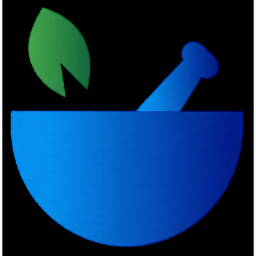
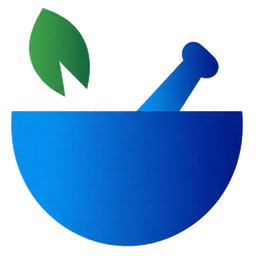
update branding assets, refine responsive UI components, and configure alternate build directory

diff --git a/components/ProductCard.tsx b/components/ProductCard.tsx
@@ -33,7 +33,7 @@ export function ProductCard({ item, preview = false }: { item: CatalogueItem; pr
     <div className="tile group flex h-full flex-col p-4 transition duration-300 hover:-translate-y-1 hover:shadow-[0_20px_50px_-25px_rgba(1,37,147,.45)]">
       <Link href={preview ? "/login" : `/shop/${item.product_id}`} className="block">
         <div className="flex items-start justify-between gap-2">
-          <div className="min-w-0"><h3 className="line-clamp-1 text-sm font-semibold">{item.name}</h3><p className="text-xs text-muted">{item.pack_size}</p></div>
+          <div className="min-w-0"><h3 className="line-clamp-2 text-sm font-semibold leading-snug">{item.name}</h3><p className="text-xs text-muted">{item.pack_size}</p></div>
           {item.requires_prescription && <span className="flex shrink-0 items-center gap-1 rounded-full bg-white px-2 py-1 text-[11px] font-semibold text-brand"><FileText size={11} /> Rx</span>}
         </div>
         <div className="relative mt-3 aspect-square overflow-hidden rounded-[20px] bg-white">
@@ -41,15 +41,15 @@ export function ProductCard({ item, preview = false }: { item: CatalogueItem; pr
           {!preview && <span className={`absolute bottom-2 left-2 flex items-center gap-1.5 rounded-full px-2.5 py-1 text-[11px] font-semibold backdrop-blur ${a.cls}`}><i className={`size-1.5 rounded-full ${a.dot}`} />{a.label}</span>}
         </div>
       </Link>
-      <div className="mt-auto flex items-center justify-between gap-2 pt-4">
+      <div className="mt-auto flex flex-wrap items-center justify-between gap-x-2 gap-y-2 pt-4">
         {preview ? (
-          <><span className="text-xs text-muted">Sign in for price</span><Link href="/login" className="btn btn-white !px-4 !py-2 text-xs">Sign in</Link></>
+          <><span className="text-xs text-muted">Price after sign in</span><Link href="/login" className="btn btn-white !px-4 !py-2 text-xs">Sign in</Link></>
         ) : (
           <>
             <span className="text-lg font-bold tracking-tight">{ghs(item.price_pesewa)}</span>
             <button className="btn btn-white !px-4 !py-2 text-xs" disabled={item.availability === "out_of_stock"} aria-label={`Add ${item.name} to cart`}
               onClick={() => { add(item); setDone(true); toast(`${item.name} added`); setTimeout(() => setDone(false), 1200); }}>
-              {done ? <Check size={14} /> : <ShoppingBag size={14} />} {done ? "Added" : "Shop Now"}
+              {done ? <Check size={14} /> : <ShoppingBag size={14} />}<span className="hidden min-[420px]:inline">{done ? "Added" : "Shop Now"}</span>
             </button>
           </>
         )}

diff --git a/app/globals.css b/app/globals.css
@@ -37,11 +37,12 @@ body {
   font-family: var(--font-jakarta), system-ui, sans-serif;
 }
 
+@layer components {
 .card { background: #fff; border-radius: 28px; border: 1px solid #e3eefb; box-shadow: 0 10px 40px -22px rgba(1, 37, 147, 0.28); }
 .tile { background: var(--tile); border-radius: 28px; }
 .hero-gradient { background: linear-gradient(115deg, #058ded 0%, #0a55c8 48%, #012593 100%); }
 .wordmark { background: linear-gradient(90deg, #7cc4f8 0%, #058ded 45%, #2f9440 100%); -webkit-background-clip: text; background-clip: text; color: transparent; }
-.btn { display: inline-flex; align-items: center; justify-content: center; gap: .5rem; border-radius: 9999px; padding: .75rem 1.4rem; font-weight: 600; font-size: .9rem; transition: transform .2s, background .2s, opacity .2s; cursor: pointer; }
+.btn { white-space: nowrap; display: inline-flex; align-items: center; justify-content: center; gap: .5rem; border-radius: 9999px; padding: .75rem 1.4rem; font-weight: 600; font-size: .9rem; transition: transform .2s, background .2s, opacity .2s; cursor: pointer; }
 .btn:active { transform: scale(.97); }
 .btn:disabled { opacity: .5; cursor: not-allowed; }
 .btn-primary { background: var(--deep); color: #fff; }
@@ -56,11 +57,14 @@ body {
 .container-x { width: 100%; margin-inline: auto; padding-inline: var(--g); }
 .gutter { padding-inline: var(--g); }
 .skeleton { background: linear-gradient(90deg, #e6f0fb 25%, #f3f8fe 50%, #e6f0fb 75%); background-size: 200% 100%; animation: sh 1.3s infinite; border-radius: 16px; }
-@keyframes sh { to { background-position: -200% 0; } }
 @media (prefers-reduced-motion: reduce) { .skeleton { animation: none; } }
 .dot::before { content: ""; display: inline-block; width: 4px; height: 4px; border-radius: 9999px; background: currentColor; margin-right: 8px; vertical-align: middle; }
 .hide-scroll { scrollbar-width: none; } .hide-scroll::-webkit-scrollbar { display: none; }
 .hero-person {
-  -webkit-mask-image: radial-gradient(ellipse 62% 78% at 52% 52%, #000 48%, transparent 100%);
-  mask-image: radial-gradient(ellipse 62% 78% at 52% 52%, #000 48%, transparent 100%);
+  -webkit-mask-image: linear-gradient(to right, transparent 0%, #000 40%), linear-gradient(to bottom, transparent 0%, #000 18%);
+  mask-image: linear-gradient(to right, transparent 0%, #000 40%), linear-gradient(to bottom, transparent 0%, #000 18%);
+  -webkit-mask-composite: source-in; mask-composite: intersect;
 }
+}
+
+@keyframes sh { to { background-position: -200% 0; } }

diff --git a/components/HomeHero.tsx b/components/HomeHero.tsx
@@ -23,12 +23,12 @@ export function HomeHero() {
 
   return (
     <section ref={root} className="gutter">
-      <div className="hero-gradient relative min-h-[540px] overflow-hidden rounded-[30px] sm:min-h-[600px] lg:min-h-[640px]">
+      <div className="hero-gradient relative min-h-[500px] overflow-hidden rounded-[30px] sm:min-h-[600px] lg:min-h-[640px]">
         <h1 className="pointer-events-none absolute left-[3%] top-[4%] z-20 select-none text-[clamp(3.4rem,14.2vw,13.5rem)] font-extrabold leading-[0.95] tracking-[-0.06em] text-white" aria-label="Pharmacy">
           {"Pharmacy".split("").map((c, i) => <span key={i} className="inline-block overflow-hidden pb-[0.12em] align-top"><span data-char className="inline-block">{c}</span></span>)}
         </h1>
 
-        <div data-person className="absolute bottom-0 right-[-14%] z-10 h-[74%] w-[80%] sm:right-0 sm:h-[90%] sm:w-[46%] lg:w-[38%]">
+        <div data-person className="absolute bottom-0 right-[-4%] z-10 h-[72%] w-[74%] sm:right-0 sm:h-[90%] sm:w-[46%] lg:w-[38%]">
           <Img k="hero" w={1000} priority alt="Top-Up pharmacist" className="hero-person size-full object-cover object-top" />
         </div>
 

diff --git a/app/shop/page.tsx b/app/shop/page.tsx
@@ -27,7 +27,7 @@ function Shop() {
       <Reveal><h1 className="text-4xl font-bold tracking-tight sm:text-6xl">Shop</h1></Reveal>
       <div className="card mt-6 flex items-center gap-3 px-5 py-3">
         <Search className="text-muted" size={20} />
-        <input ref={input} value={text} onChange={(e) => setText(e.target.value)} placeholder="Search medicines, brands, health needs…" aria-label="Search products" className="w-full bg-transparent py-2 outline-none" />
+        <input ref={input} value={text} onChange={(e) => setText(e.target.value)} placeholder="Search medicines & health needs" aria-label="Search products" className="w-full bg-transparent py-2 outline-none" />
         {text && <button onClick={() => setText("")} aria-label="Clear search" className="rounded-full p-1 hover:bg-mist"><X size={18} /></button>}
       </div>
       <div className="mt-4 flex gap-2 overflow-x-auto pb-2" role="tablist" aria-label="Categories">

diff --git a/components/Logo.tsx b/components/Logo.tsx
@@ -4,7 +4,7 @@ import Link from "next/link";
 export function Logo({ size = 40, tagline = false, className = "" }: { size?: number; tagline?: boolean; className?: string }) {
   return (
     <Link href="/" aria-label="Top-Up Pharmacy home" className={`flex items-center gap-2.5 ${className}`}>
-      <img src="/logo-mark.png" alt="" width={size} height={size} style={{ width: size, height: size }} className="shrink-0 object-contain" />
+      <img src="/logo-mark-v2.png" alt="" width={size} height={size} style={{ width: size, height: size }} className="shrink-0 object-contain" />
       <span className="leading-none">
         <span className="block text-[1.35rem] font-extrabold tracking-tight text-navy">TOP-UP</span>
         <span className="mt-1 block text-[0.62rem] font-bold tracking-[0.42em] text-navy">PHARMACY</span>

diff --git a/next.config.ts b/next.config.ts
@@ -3,6 +3,8 @@ import type { NextConfig } from "next";
 const API_URL = process.env.API_URL ?? "https://pharma-api-219993612151.europe-west1.run.app";
 
 const nextConfig: NextConfig = {
+  // Lets checks/CI build into a separate folder without clobbering a running `next dev`.
+  distDir: process.env.NEXT_DIST_DIR || ".next",
   // Proxy the API through our own origin so the httpOnly refresh cookie is
   // first-party and we never fight CORS from the browser.
   async rewrites() {
